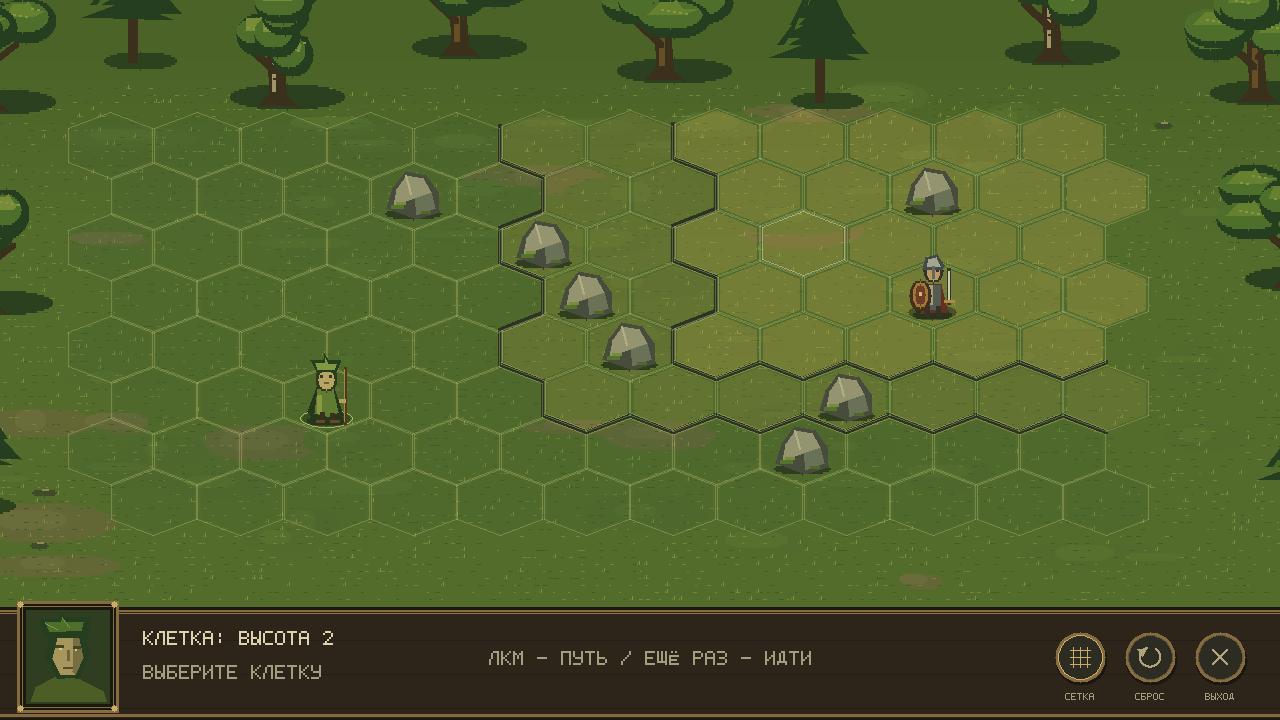
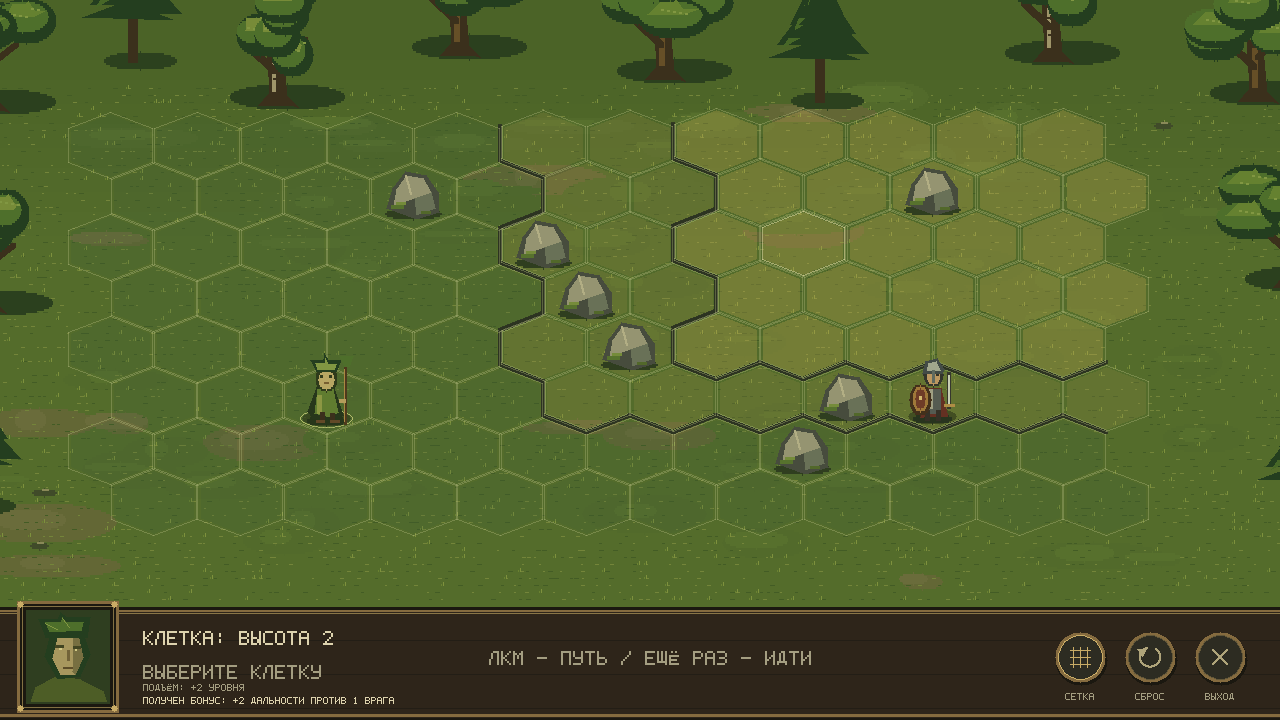
Show elevation changes and combat bonuses on hover (#11)
* Show elevation effects in battle hover preview

* Fix Russian enemy count grammar

---------

Changed region(s): [[0.6875, 0.3361, 0.75, 0.4583], [0.6875, 0.4889, 0.75, 0.6111], [0.0938, 0.9472, 0.2188, 0.9778]]

diff --git a/src/Game.MonoGame/BattlePreviewScreen.cs b/src/Game.MonoGame/BattlePreviewScreen.cs
@@ -25,7 +25,8 @@ internal sealed class BattlePreviewScreen
     private readonly HexLayout _layout = new();
     private readonly BattleMap _map;
     private readonly IReadOnlyList<BattleTile> _drawOrder;
-    private readonly HashSet<HexCoord> _occupied = [Offset(9, 3)];
+    private readonly bool _previewDescent;
+    private readonly HashSet<HexCoord> _occupied = [Offset(9, 5)];
     private MovementSelection _movement = null!;
     private HexCoord _start => _movement.Position;
     private HexCoord? _destination => _movement.Destination;
@@ -38,17 +39,18 @@ internal sealed class BattlePreviewScreen
     private static readonly int[] SharedEdgeByNeighbor = [1, 0, 5, 4, 3, 2];
 
     public BattlePreviewScreen(PixelCanvas canvas, AssetCatalog assets, Action exit,
-        bool showGrid = false)
+        bool showGrid = false, bool previewDescent = false)
     {
         _canvas = canvas;
         _assets = assets;
         _exit = exit;
         _font = new PixelFont(canvas);
         _map = CreateDemoMap();
+        _previewDescent = previewDescent;
         _drawOrder = _map.Tiles.OrderBy(t => t.Coordinate.R)
             .ThenBy(t => t.Coordinate.Q).ToArray();
         _showGrid = showGrid;
-        _hover = showGrid ? Offset(8, 2) : null;
+        _hover = showGrid ? (previewDescent ? Offset(2, 5) : Offset(8, 2)) : null;
         Reset();
     }
 
@@ -83,7 +85,8 @@ internal sealed class BattlePreviewScreen
 
     private void Reset()
     {
-        _movement = new MovementSelection(_map, Offset(2, 5), _occupied);
+        var start = _previewDescent ? Offset(8, 3) : Offset(2, 5);
+        _movement = new MovementSelection(_map, start, _occupied);
     }
 
     private static HexCoord Offset(int column, int row) => new(column - row / 2, row);
@@ -256,12 +259,73 @@ internal sealed class BattlePreviewScreen
             !_path.IsReachable ? "СЮДА НЕ ПРОЙТИ" :
             _path.Cost == 0 ? "ГЕРОЙ УЖЕ ЗДЕСЬ" : $"ПУТЬ: {CellCount(_path.Cost)}";
         _font.Draw(message, 143, 665, Muted, 2);
+        if (_hover is { } hoveredCoordinate && _map.GetTile(hoveredCoordinate) is { } hoveredCell)
+            DrawElevationChange(hoveredCell);
 
         _font.Draw("ЛКМ - ПУТЬ / ЕЩЁ РАЗ - ИДТИ", 489, 651, Muted, 2);
 
         DrawRoundButton(1080, 0, "СЕТКА", _showGrid);
         DrawRoundButton(1150, 1, "СБРОС", false);
         DrawRoundButton(1220, 2, "ВЫХОД", false);
+    }
+
+    private void DrawElevationChange(BattleTile hoveredCell)
+    {
+        var currentHeight = _map.GetTile(_start)!.Height;
+        var targetHeights = _occupied.Select(coordinate => _map.GetTile(coordinate)!.Height);
+        var change = ElevationChangePreview.Between(currentHeight, hoveredCell.Height, targetHeights);
+        if (change.LevelDelta == 0)
+            return;
+
+        var direction = change.LevelDelta > 0 ? "ПОДЪЁМ" : "СПУСК";
+        var levels = Math.Abs(change.LevelDelta);
+        _font.Draw($"{direction}: {Signed(change.LevelDelta)} {LevelWord(levels)}",
+            143, 684, Muted, 1);
+
+        _font.Draw(DescribeRangeChange(change), 143, 697,
+            change.LostRangeBonusTargetCount > 0 ? Highlight : Text, 1);
+    }
+
+    private static string DescribeRangeChange(ElevationChangePreview change)
+    {
+        if (change.TargetCount == 0)
+            return "НЕТ ВРАГОВ ДЛЯ СРАВНЕНИЯ";
+
+        if (change.LostRangeBonusTargetCount > 0 && change.GainedRangeBonusTargetCount > 0)
+            return $"ДАЛЬНОСТЬ: -{ElevationChangePreview.HighGroundRangeBonus} У " +
+                   $"{change.LostRangeBonusTargetCount}, +{ElevationChangePreview.HighGroundRangeBonus} У " +
+                   change.GainedRangeBonusTargetCount;
+
+        if (change.LostRangeBonusTargetCount > 0)
+            return $"ПОТЕРЯ: +{ElevationChangePreview.HighGroundRangeBonus} ДАЛЬНОСТИ ПРОТИВ " +
+                   $"{change.LostRangeBonusTargetCount} {EnemyWord(change.LostRangeBonusTargetCount)}";
+
+        if (change.GainedRangeBonusTargetCount > 0)
+            return $"ПОЛУЧЕН БОНУС: +{ElevationChangePreview.HighGroundRangeBonus} ДАЛЬНОСТИ ПРОТИВ " +
+                   $"{change.GainedRangeBonusTargetCount} {EnemyWord(change.GainedRangeBonusTargetCount)}";
+
+        return change.TargetCount == 1
+            ? "БОНУС ДАЛЬНОСТИ ПРОТИВ ВРАГА НЕ МЕНЯЕТСЯ"
+            : "БОНУС ДАЛЬНОСТИ ПРОТИВ ВРАГОВ НЕ МЕНЯЕТСЯ";
+    }
+
+    private static string EnemyWord(int count) =>
+        count % 10 == 1 && count % 100 != 11 ? "ВРАГА" : "ВРАГОВ";
+
+    private static string Signed(int value) => value > 0 ? $"+{value}" : value.ToString();
+
+    private static string LevelWord(int count)
+    {
+        var lastTwo = count % 100;
+        if (lastTwo is >= 11 and <= 14)
+            return "УРОВНЕЙ";
+
+        return (count % 10) switch
+        {
+            1 => "УРОВЕНЬ",
+            2 or 3 or 4 => "УРОВНЯ",
+            _ => "УРОВНЕЙ"
+        };
     }
 
     private void DrawRoundButton(int x, int icon, string label, bool active)

diff --git a/tests/Game.Tests/Combat/ElevationChangePreviewTests.cs b/tests/Game.Tests/Combat/ElevationChangePreviewTests.cs
@@ -1,0 +1,76 @@
+using Game.Core.Combat;
+using Xunit;
+
+namespace Game.Tests.Combat;
+
+public sealed class ElevationChangePreviewTests
+{
+    [Fact]
+    public void Between_HigherDestination_GainsBonusOnlyAgainstTargetsNowBelow()
+    {
+        var change = ElevationChangePreview.Between(1, 2, [0, 1, 2]);
+
+        Assert.Equal(1, change.LevelDelta);
+        Assert.Equal(1, change.GainedRangeBonusTargetCount);
+        Assert.Equal(0, change.LostRangeBonusTargetCount);
+    }
+
+    [Fact]
+    public void Between_LowerDestination_LosesBonusOnlyAgainstTargetsNoLongerBelow()
+    {
+        var change = ElevationChangePreview.Between(2, 1, [0, 1, 2]);
+
+        Assert.Equal(-1, change.LevelDelta);
+        Assert.Equal(0, change.GainedRangeBonusTargetCount);
+        Assert.Equal(1, change.LostRangeBonusTargetCount);
+    }
+
+    [Fact]
+    public void Between_TwoLevelDrop_LosesBonusForTargetsBetweenTheHeights()
+    {
+        var change = ElevationChangePreview.Between(2, 0, [0, 1, 2]);
+
+        Assert.Equal(-2, change.LevelDelta);
+        Assert.Equal(0, change.GainedRangeBonusTargetCount);
+        Assert.Equal(2, change.LostRangeBonusTargetCount);
+    }
+
+    [Fact]
+    public void Between_LowerTarget_RemainsBelowAfterOneLevelDescent()
+    {
+        var change = ElevationChangePreview.Between(2, 1, [0]);
+
+        Assert.Equal(-1, change.LevelDelta);
+        Assert.Equal(0, change.GainedRangeBonusTargetCount);
+        Assert.Equal(0, change.LostRangeBonusTargetCount);
+    }
+
+    [Theory]
+    [InlineData(-1, 0, 0)]
+    [InlineData(0, -1, 0)]
+    [InlineData(0, 0, -1)]
+    public void Between_NegativeHeight_ThrowsArgumentOutOfRangeException(
+        int currentHeight, int destinationHeight, int targetHeight)
+    {
+        Assert.Throws<ArgumentOutOfRangeException>(() =>
+            ElevationChangePreview.Between(currentHeight, destinationHeight, [targetHeight]));
+    }
+
+    [Fact]
+    public void Between_NullTargetHeights_ThrowsArgumentNullException()
+    {
+        Assert.Throws<ArgumentNullException>(() =>
+            ElevationChangePreview.Between(0, 1, null!));
+    }
+
+    [Fact]
+    public void Between_NoTargets_OnlyReportsTheLevelDifference()
+    {
+        var change = ElevationChangePreview.Between(2, 0, Array.Empty<int>());
+
+        Assert.Equal(-2, change.LevelDelta);
+        Assert.Equal(0, change.GainedRangeBonusTargetCount);
+        Assert.Equal(0, change.LostRangeBonusTargetCount);
+        Assert.Equal(0, change.TargetCount);
+    }
+}

diff --git a/src/Game.Core/Combat/ElevationChangePreview.cs b/src/Game.Core/Combat/ElevationChangePreview.cs
@@ -1,0 +1,39 @@
+namespace Game.Core.Combat;
+
+/// <summary>Describes height and high-ground range changes against individual target heights.</summary>
+/// <param name="LevelDelta">Destination height minus the current height.</param>
+/// <param name="GainedRangeBonusTargetCount">Targets that become lower than the attacker.</param>
+/// <param name="LostRangeBonusTargetCount">Targets that are no longer lower than the attacker.</param>
+public readonly record struct ElevationChangePreview(
+    int LevelDelta,
+    int GainedRangeBonusTargetCount,
+    int LostRangeBonusTargetCount,
+    int TargetCount)
+{
+    public const int HighGroundRangeBonus = 2;
+
+    public static ElevationChangePreview Between(
+        int currentHeight,
+        int destinationHeight,
+        IEnumerable<int> targetHeights)
+    {
+        ArgumentNullException.ThrowIfNull(targetHeights);
+        ArgumentOutOfRangeException.ThrowIfNegative(currentHeight);
+        ArgumentOutOfRangeException.ThrowIfNegative(destinationHeight);
+
+        var gained = 0;
+        var lost = 0;
+        var count = 0;
+        foreach (var targetHeight in targetHeights)
+        {
+            ArgumentOutOfRangeException.ThrowIfNegative(targetHeight);
+            count++;
+            if (currentHeight <= targetHeight && destinationHeight > targetHeight)
+                gained++;
+            else if (currentHeight > targetHeight && destinationHeight <= targetHeight)
+                lost++;
+        }
+
+        return new ElevationChangePreview(destinationHeight - currentHeight, gained, lost, count);
+    }
+}

diff --git a/src/Game.MonoGame/Game1.cs b/src/Game.MonoGame/Game1.cs
@@ -9,16 +9,18 @@ internal sealed class Game1 : Microsoft.Xna.Framework.Game
     private readonly GraphicsDeviceManager _graphics;
     private readonly string? _screenshotPath;
     private readonly bool _showGrid;
+    private readonly bool _previewDescent;
     private SpriteBatch _spriteBatch = null!;
     private PixelCanvas _canvas = null!;
     private AssetCatalog _assets = null!;
     private BattlePreviewScreen _screen = null!;
     private RenderTarget2D _frame = null!;
 
-    public Game1(string? screenshotPath = null, bool showGrid = false)
+    public Game1(string? screenshotPath = null, bool showGrid = false, bool previewDescent = false)
     {
         _screenshotPath = screenshotPath;
         _showGrid = showGrid;
+        _previewDescent = previewDescent;
         _graphics = new GraphicsDeviceManager(this)
         {
             PreferredBackBufferWidth = 1280,
@@ -36,7 +38,7 @@ internal sealed class Game1 : Microsoft.Xna.Framework.Game
         _spriteBatch = new SpriteBatch(GraphicsDevice);
         _canvas = new PixelCanvas(GraphicsDevice, _spriteBatch);
         _assets = new AssetCatalog(GraphicsDevice);
-        _screen = new BattlePreviewScreen(_canvas, _assets, Exit, _showGrid);
+        _screen = new BattlePreviewScreen(_canvas, _assets, Exit, _showGrid, _previewDescent);
         _frame = new RenderTarget2D(GraphicsDevice, 1280, 720, false,
             SurfaceFormat.Color, DepthFormat.None);
     }

diff --git a/src/Game.MonoGame/Program.cs b/src/Game.MonoGame/Program.cs
@@ -7,20 +7,24 @@ internal static class Program
     {
         string? screenshotPath = null;
         var showGrid = false;
+        var previewDescent = false;
         if (args.Length != 0)
         {
-            if (args.Length != 2 || args[0] is not ("--screenshot" or "--screenshot-grid") ||
+            if (args.Length != 2 || args[0] is not
+                ("--screenshot" or "--screenshot-grid" or "--screenshot-grid-descent") ||
                 !Path.IsPathFullyQualified(args[1]))
             {
                 throw new ArgumentException(
-                    "Usage: Game.MonoGame [--screenshot | --screenshot-grid] <absolute PNG path>");
+                    "Usage: Game.MonoGame [--screenshot | --screenshot-grid | " +
+                    "--screenshot-grid-descent] <absolute PNG path>");
             }
 
             screenshotPath = Path.GetFullPath(args[1]);
-            showGrid = args[0] == "--screenshot-grid";
+            showGrid = args[0] != "--screenshot";
+            previewDescent = args[0] == "--screenshot-grid-descent";
         }
 
-        using var game = new Game1(screenshotPath, showGrid);
+        using var game = new Game1(screenshotPath, showGrid, previewDescent);
         game.Run();
     }
 }
